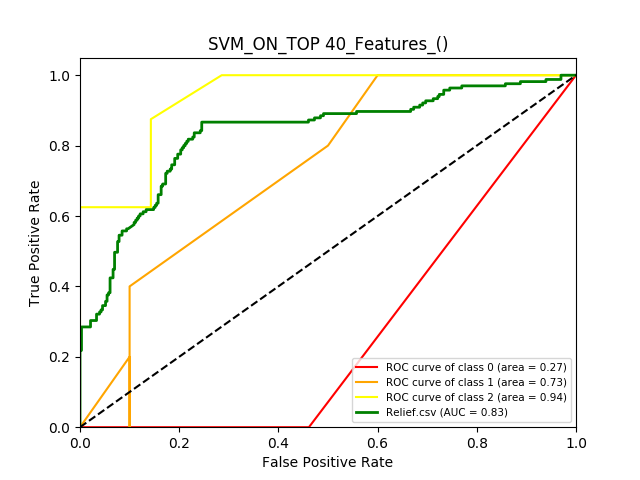
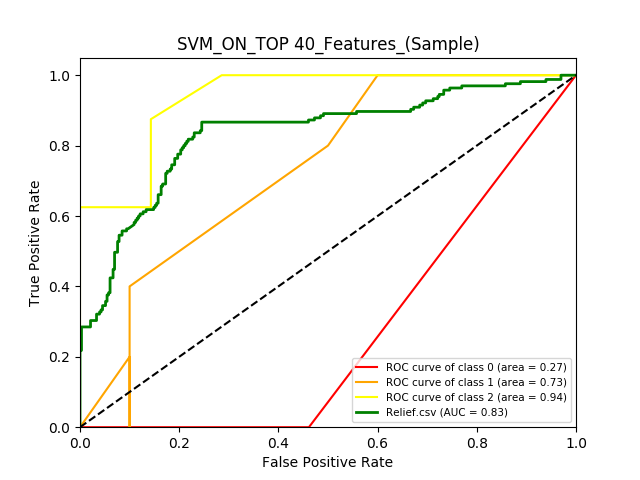
primary version finish!

Changed region(s): [[0.2812, 0.0625, 0.75, 0.125]]

diff --git a/templates/gallery.html b/templates/gallery.html
@@ -1,0 +1,36 @@
+
+<!DOCTYPE html>
+<html lang="en">
+<head>
+    <meta charset="UTF-8">
+    <title>Title</title>
+    <link rel="stylesheet" href="https://maxcdn.bootstrapcdn.com/bootstrap/3.3.6/css/bootstrap.min.css"
+          integrity="sha384-1q8mTJOASx8j1Au+a5WDVnPi2lkFfwwEAa8hDDdjZlpLegxhjVME1fgjWPGmkzs7" crossorigin="anonymous">
+
+</head>
+<body>
+
+        <h1 class="page-header">&#32     Your ROC Results</h1>
+        
+        <font size="3">Below are your ROC resutls, you can also download all the output files using this link:</font>
+        <a href="{{url_for('get_zip')}}">Download</a>
+
+
+<div class="container">
+
+    <div class="row">
+         
+        
+           
+        {% for image_name in image_names %}
+        <div class="col-lg-3 col-md-4 col-xs-6 thumb">
+            <img class="img-responsive" src=" {{url_for('send_image', filename=image_name)}}" height="1000" width="1000">
+        </div>
+        {% endfor %}
+    </div>
+</div>
+<script src="https://maxcdn.bootstrapcdn.com/bootstrap/3.3.6/js/bootstrap.min.js"
+        integrity="sha384-0mSbJDEHialfmuBBQP6A4Qrprq5OVfW37PRR3j5ELqxss1yVqOtnepnHVP9aJ7xS"
+        crossorigin="anonymous"></script>
+
+</body>

diff --git a/templates/form.html b/templates/form.html
@@ -49,7 +49,7 @@
     <input type="text" name="plotlinewidth" value=2><br> 
 
     <br>Legend title:<br>
-    <input type="text" name="legendtitle"><br>
+    <input type="text" name="legendtitle" value="Sample"> <br>
 
 
 

diff --git a/preset.py b/preset.py
@@ -1,16 +1,10 @@
-from flask import Flask, redirect, url_for, request,send_file,render_template
+from flask import Flask, redirect, url_for, request,send_file,render_template,send_from_directory
 import configparser
 from werkzeug import secure_filename
 import os
 from subprocess import call
 import time
 app = Flask(__name__)
-
-
-
-
-
-
 
 @app.after_request
 def add_header(r):
@@ -23,12 +17,6 @@ def add_header(r):
     r.headers["Expires"] = "0"
     r.headers['Cache-Control'] = 'public, max-age=0'
     return r
-
-
-
-
-
-
 
 @app.route('/')
 def start():
@@ -66,6 +54,8 @@ def clear():
     os.system("sudo ./reinitiate.sh")
     time.sleep(1)
 
+def hasNumbers(inputString):
+    return any(char.isdigit() for char in inputString)
 
 
 @app.route('/result',methods = ['POST', 'GET'])
@@ -108,7 +98,22 @@ def auclistener():
     if request.method == 'POST':
         interval=request.form['interval']
         print interval
-        return redirect(url_for('get_roc'))    
+        return redirect(url_for('get_gallery'))    
+
+
+@app.route('/gallery')
+def get_gallery():
+    static_names = os.listdir('./static')
+    imgList=[]
+    for name in static_names:
+        if hasNumbers(name):
+            imgList.append(name)
+    imgList.sort()
+    return render_template("gallery.html", image_names=imgList)
+
+@app.route('/upload/<filename>')
+def send_image(filename):
+    return send_from_directory("static", filename)
 
 
 
